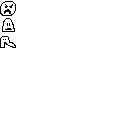
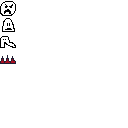
spike enemy

Changed region(s): [[0.0, 0.4375, 0.125, 0.5]]

diff --git a/Enemy.cs b/Enemy.cs
@@ -8,7 +8,7 @@ public class Enemy : KinematicBody2D, TMXObject
     // private string b = "text";
 
     private float xDir = 0;
-    private Vector2 velocity;
+    public Vector2 Velocity;
     private const float Gravity = 400;
     private float Speed = 50;
 
@@ -18,11 +18,33 @@ public class Enemy : KinematicBody2D, TMXObject
 
     public ObjectType Type {get; set;}
 
+
+    public void Kill()
+    {
+        Globals.CreateEffect("destroyEnemy", Position);
+        QueueFree();
+    }
+
     void OnOverlapDetectorBodyEntered(Node body)
     {
-        Player player = body as Player;
-        if (player == null) return;
-        player.Kill();
+        if (body is Player) {
+            Player player = body as Player;        
+            if (Type == ObjectType.Spike) {
+                if (!player.IsOnFloor() && player.Velocity.y > 0) {
+                    player.Kill();
+                }
+            } else {
+                player.Kill();
+            }
+        } else if (body is Enemy) {
+            Enemy enemy = body as Enemy;
+            GD.Print(enemy.Type.ToString() + " entered " + Type.ToString());
+            if (Type == ObjectType.Spike) {
+                if (!enemy.IsOnFloor() && enemy.Velocity.y > 0) {
+                    enemy.Kill();
+                }
+            }
+        }
     }
 
     public override void _PhysicsProcess(float delta)
@@ -31,21 +53,21 @@ public class Enemy : KinematicBody2D, TMXObject
         bool isOnCeil = IsOnCeiling();
         bool isOnWall = IsOnWall();
 
-        velocity.y += Gravity * delta;
-        if (idleWait > 0) {
-            velocity.x = 0;
+        Velocity.y += Gravity * delta;
+        if (idleWait > 0 || Type == ObjectType.Spike) {
+            Velocity.x = 0;
         } else {
             sprite.FlipH = xDir < 0;
-            velocity.x = xDir * Speed;
+            Velocity.x = xDir * Speed;
         }
-        velocity = MoveAndSlide(velocity);
+        Velocity = MoveAndSlide(Velocity);
 
-        if (isOnWall && velocity.x == 0 && idleWait <= 0) {
+        if (isOnWall && Velocity.x == 0 && idleWait <= 0) {
             //if (Type == ObjectType.Enemy2) GD.Print("enemy change dir");
             xDir = -xDir;
             idleWait = 1;
         }
-        if (isOnFloor) velocity.y = 0;
+        if (isOnFloor) Velocity.y = 0;
     }
 
     public override void _Process(float delta)
@@ -57,7 +79,7 @@ public class Enemy : KinematicBody2D, TMXObject
     public override void _Ready()
     {
         xDir = 1;
-        velocity = Vector2.Zero;
+        Velocity = Vector2.Zero;
         sprite = GetNode<AnimatedSprite>("Sprite");
 
         switch (Type)
@@ -70,6 +92,12 @@ public class Enemy : KinematicBody2D, TMXObject
             break;
         case ObjectType.Enemy3:
             sprite.Play("enemy3");
+            break;
+        case ObjectType.Spike:
+            sprite.Play("spike");
+            break;
+        case ObjectType.Trap:
+            sprite.Play("trap");
             break;
         }
     }

diff --git a/Player.cs b/Player.cs
@@ -14,7 +14,7 @@ public class Player : KinematicBody2D
     private float dragX = .7f;
     private const float accX = 20f;
     private Camera2D camera;
-    private Vector2 velocity = new Vector2(0.0f, 0.0f);
+    public Vector2 Velocity = Vector2.Zero;
     private const float GravityDefault = 700.0f;
     private const float GravityJump = 400.0f;
     private float gravity = GravityDefault;
@@ -233,9 +233,9 @@ public class Player : KinematicBody2D
 
         animatedSprite.FlipH = (Direction == Direction.Left);
 
-        velocity.x = speedX;
+        Velocity.x = speedX;
         speedY += gravity * delta;
-        velocity.y = speedY;
+        Velocity.y = speedY;
 
         Vector2 direction = new Vector2(0.0f, 0.0f); // TODO input goes here
         Vector2 snapVector = Vector2.Zero;
@@ -249,7 +249,7 @@ public class Player : KinematicBody2D
         var collision = GetNode<CollisionShape2D>("Collision");
         collision.Disabled = State == PlayerState.Die;
 
-        velocity = MoveAndSlide(velocity, Vector2.Up, !isOnPlatform, 4, 0.9f, false);
+        Velocity = MoveAndSlide(Velocity, Vector2.Up, !isOnPlatform, 4, 0.9f, false);
 
         if (isOnWall) speedX = 0;
         if (isOnCeil) speedY = Math.Max(speedY, 0);

diff --git a/Map.cs b/Map.cs
@@ -20,6 +20,7 @@ public class Map : Node2D
     private PackedScene shovelItemScene;
     private PackedScene coinItemScene;
     private PackedScene enemyScene;
+    private PackedScene spikeScene;
 
     static string ResolvePath(string path)
     {
@@ -189,6 +190,7 @@ public class Map : Node2D
         shovelItemScene = GD.Load<PackedScene>("res://ShovelItem.tscn");
         coinItemScene = GD.Load<PackedScene>("res://CoinItem.tscn");
         enemyScene = GD.Load<PackedScene>("res://Enemy.tscn");
+        spikeScene = GD.Load<PackedScene>("res://Spike.tscn");
 
         LoadTMX("map.tmx");
         SpawnObjects(layers["FG"], ObjectType.Shovel1, shovelItemScene);
@@ -203,8 +205,9 @@ public class Map : Node2D
         SpawnObjects(layers["FG"], ObjectType.Enemy1, enemyScene);
         SpawnObjects(layers["FG"], ObjectType.Enemy2, enemyScene);
         SpawnObjects(layers["FG"], ObjectType.Enemy3, enemyScene);
+        SpawnObjects(layers["FG"], ObjectType.Spike, spikeScene);
 
-        
+
         SpawnPlayer(layers["FG"], ObjectType.Player);
     }
 

diff --git a/ObjectType.cs b/ObjectType.cs
@@ -4,6 +4,8 @@ public enum ObjectType
     Enemy1 = 2,
     Enemy2 = 3,
     Enemy3 = 4,
+    Spike = 5,
+    Trap = 6,
 
     Coin1 = 16,
     Coin2 = 17,
